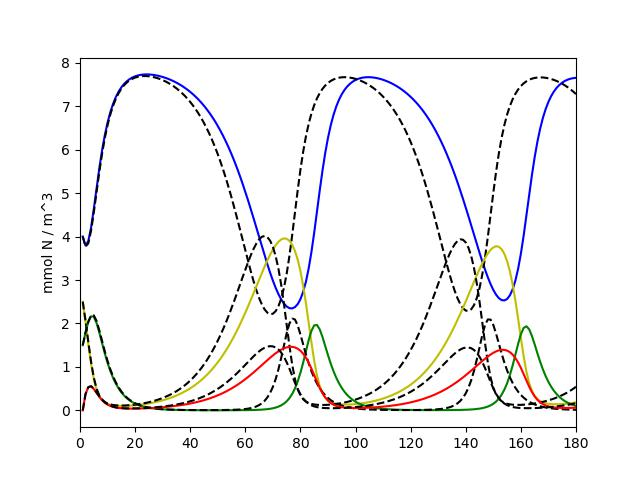
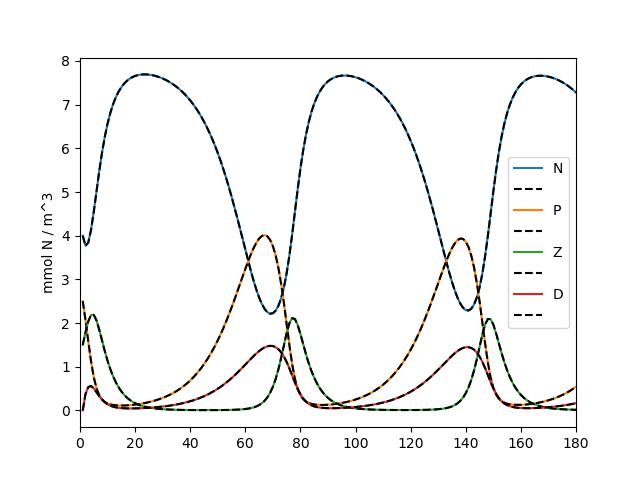
Changes to be committed: 	modified:   functions/seasonal_cycling.py 	modified:   globe.py 	modified:   npzd-check.jpg

diff --git a/globe.py b/globe.py
@@ -139,15 +139,17 @@ for i in range(1,len(time)):
 
 plt.subplots()
 # plt.plot(time,solution[0,:])
-plt.plot(x,solution[1,:],'-b')
+plt.plot(x,solution[1,:])
 plt.plot(x,N,'--k')
-plt.plot(x,solution[2,:],'-y')
+plt.plot(x,solution[2,:])
 plt.plot(x,P,'--k')
-plt.plot(x,solution[3,:],'-g')
+plt.plot(x,solution[3,:])
 plt.plot(x,Z,'--k')
-plt.plot(x,solution[0,:],'-r')
+plt.plot(x,solution[0,:])
 plt.plot(x,D,'--k')
 
+# plt.legend(['N','N (check)','P','P (check)','Z','Z (check)','D','D (check)'])
+plt.legend(['N','','P','','Z','','D',''])
 # plt.legend(['DIN', 'Phytoplankton'], loc='upper left')
 # plt.legend(['DIN', 'Phytoplankton', 'Zooplankton'], loc='upper left')
 # plt.legend(['DIN', 'Phytoplankton', 'Zooplankton', 'Detritus'], loc='upper left')

diff --git a/functions/seasonal_cycling.py b/functions/seasonal_cycling.py
@@ -89,6 +89,6 @@ def get_temperature(time,t_win,t_sum):
 
     day_of_year = calc_day_of_year(time)
     fraction_of_day = calc_fraction_of_day(time)
-    temperature = (t_sum + t_win)/2.0 - (t_sum - t_win)/2.0*np.cos((day_of_year+(fraction_of_day - 0.5))*(np.pi/180)) - 0.5*np.cos(2*np.pi*fraction_of_day)
+    temperature = (t_sum + t_win)/2.0 - (t_sum - t_win)/2.0*np.cos((day_of_year+(fraction_of_day - 0.5))*(np.pi/180)) # - 0.5*np.cos(2*np.pi*fraction_of_day)
 
     return temperature
